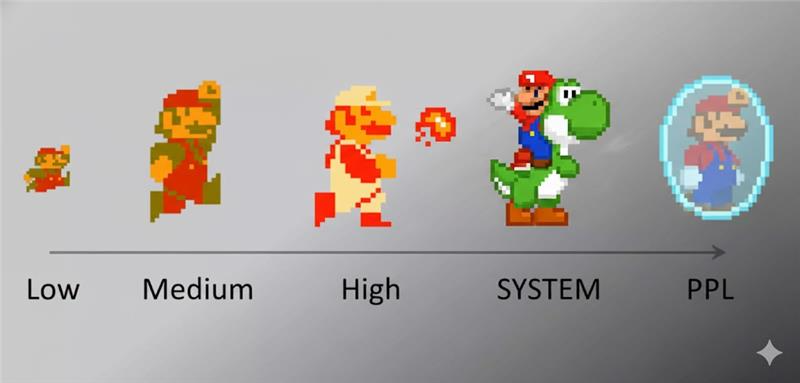
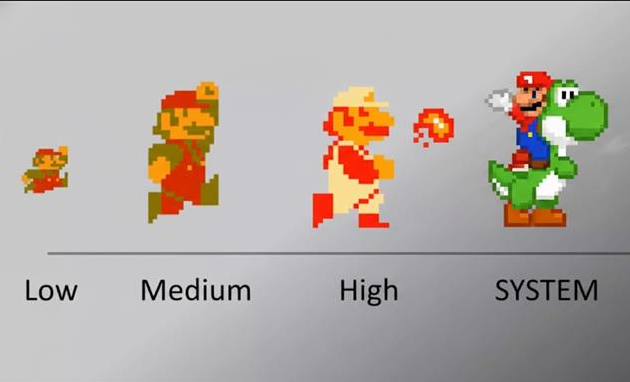
integrity changes

diff --git a/content/posts/zoho-assist-breaks-windows-security-model/index.md b/content/posts/zoho-assist-breaks-windows-security-model/index.md
@@ -29,10 +29,10 @@ If you’ve never heard of integrity levels, here’s a high-level summary. They
 | **Low**       | Browser sandboxes, UWP apps                 | Isolated; needs a broker to access most resources                |
 | **Medium**    | Normal user applications                    | The default for anything you run                                 |
 | **High**      | Elevated admin apps (after UAC)             | Can modify medium/low processes                                  |
-| **System**    | Services, core OS components                | Has "full" local privileges; the keys to the kingdom             |
-| **PPL**       | Hardened security services (Antivirus, DRM) | Even higher, access is controlled by its special signature level |
+| **System**    | Services, core OS components                | Has "full" local privileges;             						 |
 
-In short: low is a sandbox, medium is your everyday user space, high is "Run as Administrator," and system is the service layer. When a medium integrity process can directly influence a system integrity process to execute arbitrary code, that’s a textbook privilege escalation.
+In short: low is a sandbox, medium is your everyday user space, high is "Run as Administrator," and system is the service layer. When a medium integrity process can directly influence a system integrity process to execute arbitrary code.
+
 
 ![Integrity diagram](</images/Pasted image 20251017101112.png>)
 
